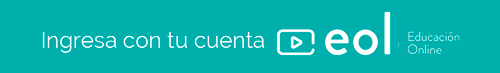
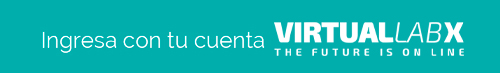
update login boton and courses card

Changed region(s): [[0.54, 0.1644, 0.93, 0.7671]]

diff --git a/lms/templates/course.html b/lms/templates/course.html
@@ -1,0 +1,49 @@
+<%def name="online_help_token()"><% return "course" %></%def>
+<%namespace name='static' file='static_content.html'/>
+<%!
+from django.utils.translation import ugettext as _
+from django.urls import reverse
+from six import text_type
+%>
+<%page args="course" expression_filter="h"/>
+<article class="course" id="${course.id}" role="region" aria-label="${course.display_name_with_default}">
+  <a href="${reverse('about_course', args=[text_type(course.id)])}">
+    <header class="course-image">
+      <div class="cover-image">
+        <img src="${course.course_image_url}" alt="${course.display_name_with_default} ${course.display_number_with_default}" />
+        <div class="learn-more" aria-hidden="true">${_("LEARN MORE")}</div>
+      </div>
+    </header>
+    <div class="course-info" aria-hidden="true">
+      <h2 class="course-name">
+        <span class="course-organization">${course.display_org_with_default}</span>
+        <span class="course-title">${course.display_name_with_default}</span>
+      </h2>
+      <%
+      if course.start is not None:
+          course_date_string = course.start.strftime('%Y-%m-%dT%H:%M:%S%z')
+      else:
+          course_date_string = ''
+      %>
+      % if course.advertised_start is not None:
+          <div class="course-date" aria-hidden="true">${_("Starts")}: ${course.advertised_start}</div>
+      % else:
+          <div class="course-date localized_datetime" aria-hidden="true" data-format="shortDate" data-datetime="${course_date_string}" data-language="${LANGUAGE_CODE}" data-string="${_("Starts: {date}")}"></div>
+      % endif
+    </div>
+    <div class="sr">
+      <ul>
+        <li>${course.display_org_with_default}</li>
+        <li>${course.display_number_with_default}</li>
+        % if course.advertised_start is not None:
+            <li>${_("Starts")}: <time itemprop="startDate">${course.advertised_start}</time></li>
+        % else:
+            <li>${_("Starts")}: <time class="localized_datetime" itemprop="startDate" data-format="shortDate" data-datetime="${course_date_string}" data-language="${LANGUAGE_CODE}"></time></li>
+        % endif
+      </ul>
+    </div>
+  </a>
+</article>
+<%static:require_module_async module_name="js/dateutil_factory" class_name="DateUtilFactory">
+    DateUtilFactory.transform(iterationKey=".localized_datetime");
+</%static:require_module_async>
